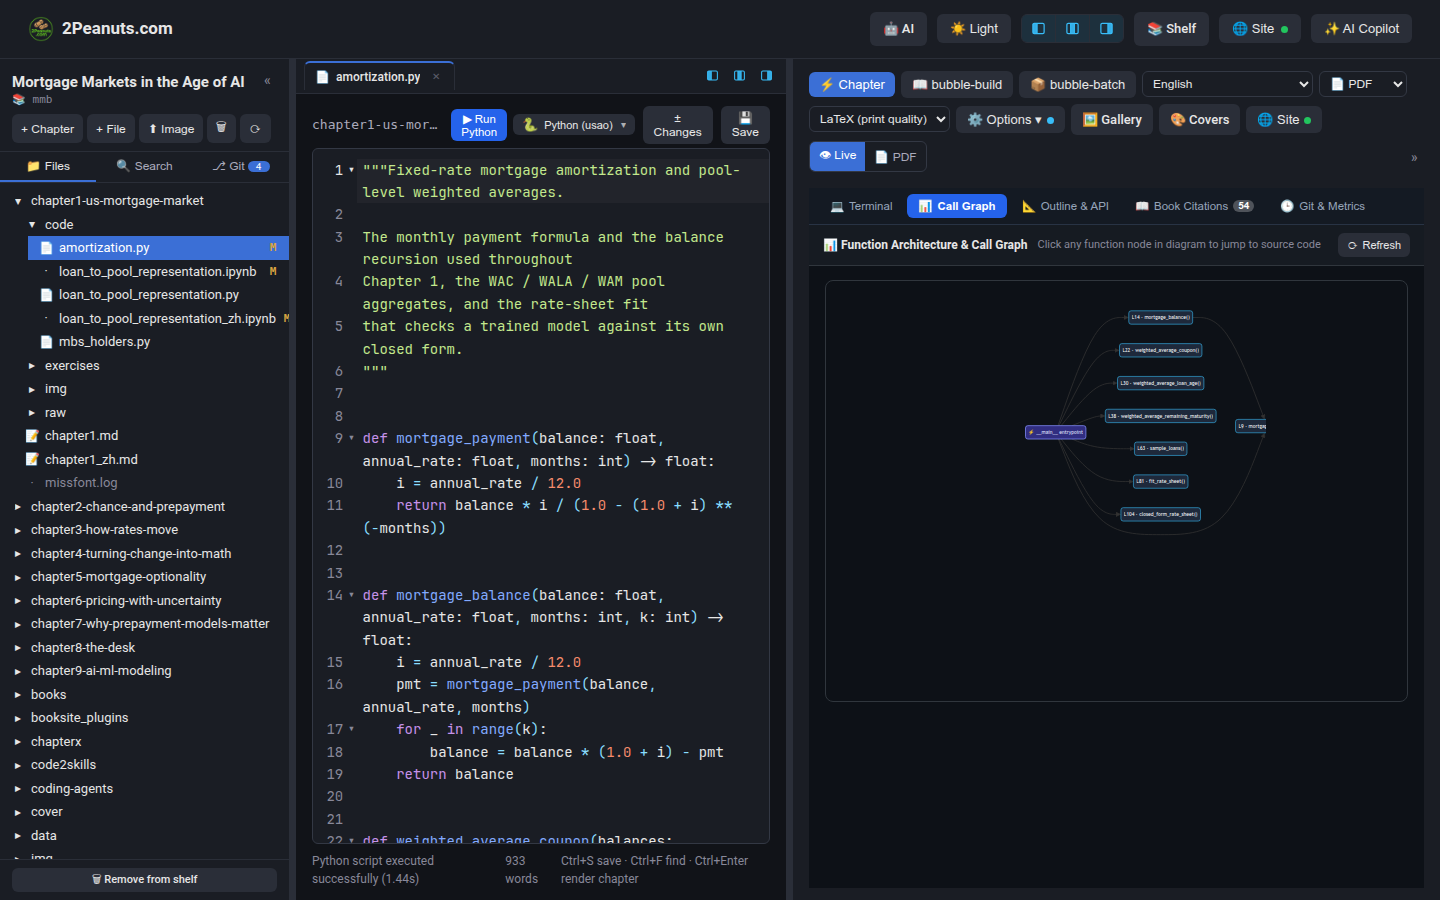
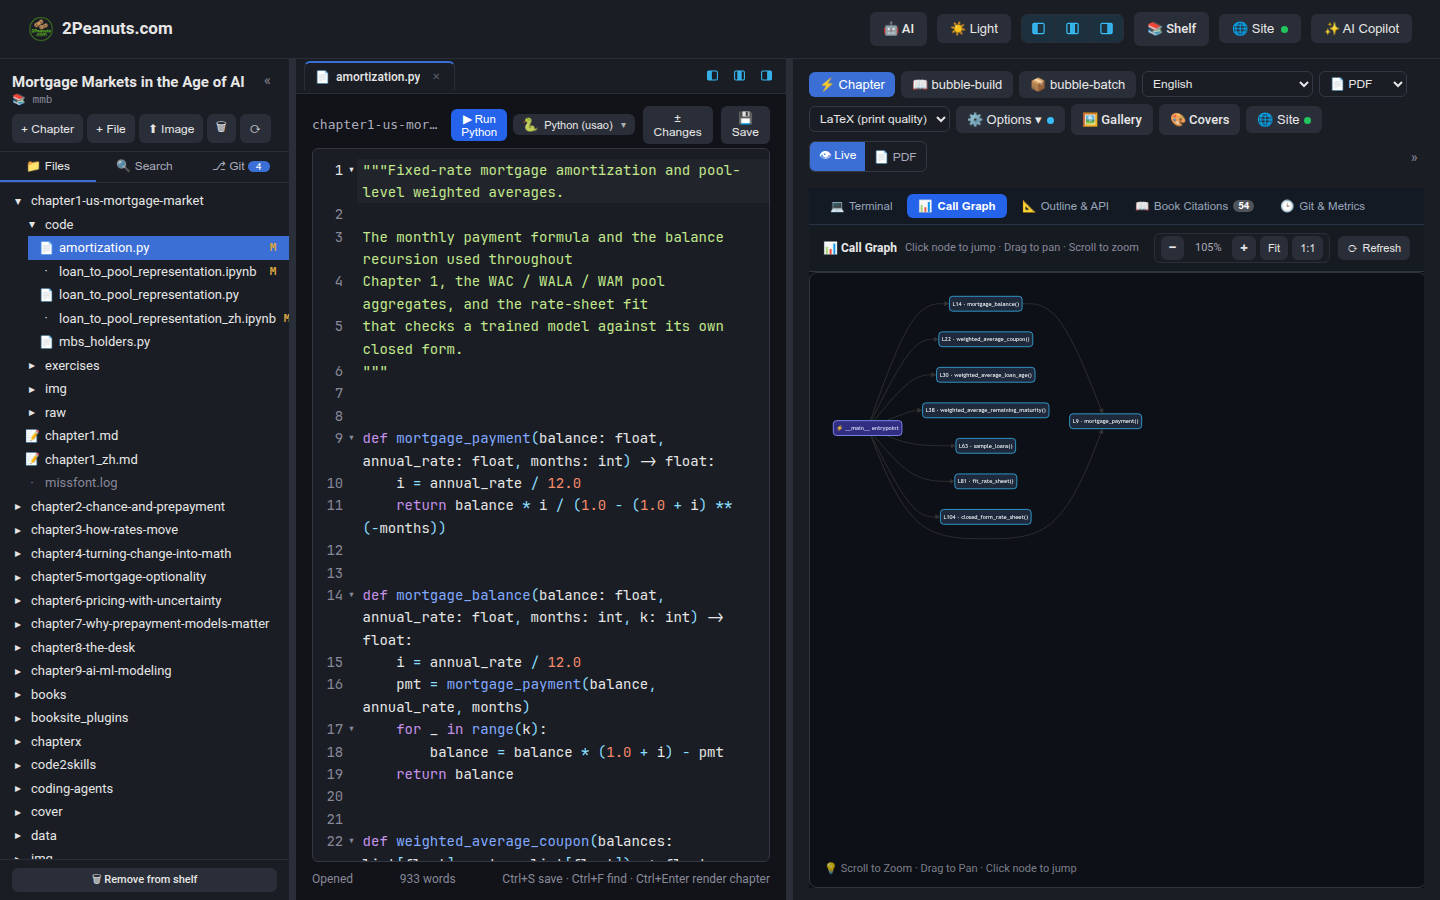
docs: add Call Graph Zoom & Pan documentation and screenshots

diff --git a/docs/code-insights-runner.md b/docs/code-insights-runner.md
@@ -75,9 +75,16 @@ The Call Graph tab employs Python's standard `ast` (Abstract Syntax Tree) module
 | :---: | :---: |
 | ![Call Graph Dark Theme](img/code-insight-2-callgraph-dark.png) | ![Call Graph Light Theme](img/code-insight-2-callgraph-light.png) |
 
+![Call Graph Zoomed In View](img/code-insight-2-callgraph-zoomed.png)
+
 #### Highlights:
+* **Interactive Zoom & Pan Engine**:
+  * **Zoom In & Out (`+` / `−`)**: Magnify from 25% up to 400% with live percentage indicator.
+  * **Mouse Wheel Zoom**: Smooth cursor-centered zooming using the mouse wheel or trackpad pinch gesture.
+  * **Click & Drag Pan**: Freely pan the graph across the infinite canvas with grab/grabbing feedback.
+  * **Fit & 1:1 Reset**: Click `Fit` to auto-scale the entire call graph to the viewport, or `1:1` to reset to native 100% scale.
 * **Mermaid Vector Flowchart**: Automatically compiled and rendered as crisp, vector graphics with publication-grade node palettes.
-* **Interactive Code Jumping**: Every function node in the SVG diagram is interactive. Clicking on a node (such as `mortgage_balance`) instantly focuses CodeMirror and navigates the cursor to the exact line of the function definition.
+* **Interactive Code Jumping**: Every function node in the SVG diagram is interactive. Clicking on a node (such as `mortgage_balance`) instantly focuses CodeMirror and navigates the cursor to the exact line of the function definition (pan dragging is intelligently distinguished from clicks).
 * **Theme-Aware Styling**: Perfectly harmonized with both Dark and Light themes.
 
 ---
